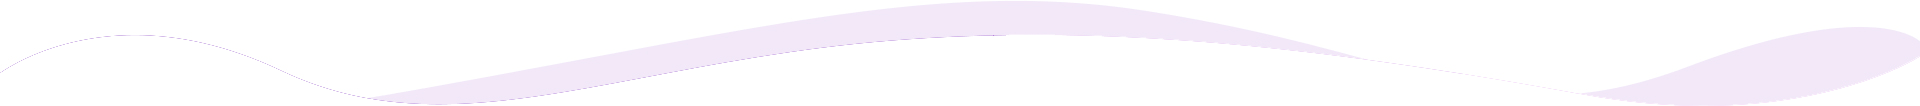
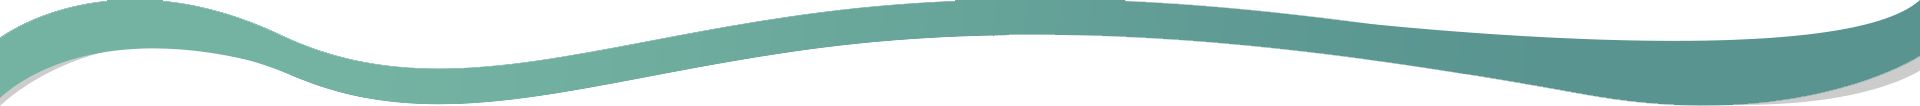
footer bg

diff --git a/css/style.css b/css/style.css
@@ -5774,11 +5774,12 @@ img{
 }
 
 .main-footer .pattern-layer-two{
+	/* main footer bottom wave */
 	position:absolute;
-	left:0px;
-	bottom:0px;
-	width:163px;
-	height:155px;
+	bottom: 0;
+	width:1900px;
+	height:300px;
+	opacity: 0.2;
 	background-repeat:no-repeat;
 }
 
@@ -14969,10 +14970,10 @@ background-color: red;
 .dark-body .main-footer.style-three,
 .dark-body .about-section.style-two:before{
 	/* sayam Note: Footer */
-	background: #161e29;
-	background: -webkit-linear-gradient(to bottom, #2d3049 0%, #161e29 100%);
+	background: #161e29; 
+	/* background: -webkit-linear-gradient(to bottom, #2d3049 0%, #161e29 100%);
 	background: -moz-linear-gradient(to bottom, #2d3049 0%, #161e29 100%);
-	background: linear-gradient(to bottom, #2d3049 0%, #161e29 100%);
+	background: linear-gradient(to bottom, #2d3049 0%, #161e29 100%); */
 }
 
 .dark-body .service-block-five .inner-box .side-layer-one,
@@ -14982,6 +14983,7 @@ background-color: red;
 .dark-body .team-block-two .inner-box:before{
 	background-color:#363a5a;
 }
+
 
 /*Boxed Layout Style*/
 
@@ -16071,3 +16073,7 @@ background-color: red;
 	width: 100vw;
 	overflow: hidden;
 } */
+
+.customWave{
+	opacity: 1;
+}

diff --git a/index.html b/index.html
@@ -819,8 +819,8 @@
 	
 	<!-- Main Footer -->
     <footer class="main-footer style-three">
-		<div class="pattern-layer" style="background-image: url(images/background/pattern-3.png);"></div>
-		<div class="pattern-layer-two" style="background-image: url(images/background/pattern-4.png)"></div>
+		<div class="pattern-layer customWave" style="background-image: url(images/background/pattern-3.png);"></div>
+		<div class="pattern-layer-two" style="background-image: url(images/background/pattern-233.png)"></div>
 		<div class="pattern-layer-three" style="background-image: url(images/background/pattern-5.png)"></div>
     	<div class="auto-container">
         	<!--Widgets Section-->

diff --git a/css/custom-animate.css b/css/custom-animate.css
@@ -373,8 +373,9 @@
 
 .banner-section-three .icon-layer-one,
 .services-section-four .owl-carousel .owl-stage-outer .owl-item.center .service-block-four .inner-box .icon-one,
-.service-block-two .inner-box:hover .icon-one,
-.main-footer .pattern-layer-two{
+.service-block-two .inner-box:hover .icon-one{
+  /* sAYAM nOTE: footer animation */
+  /* .main-footer .pattern-layer-two{ */
     animation-name: float_left_right; 
     animation-duration: 30s; 
     animation-iteration-count: infinite;
